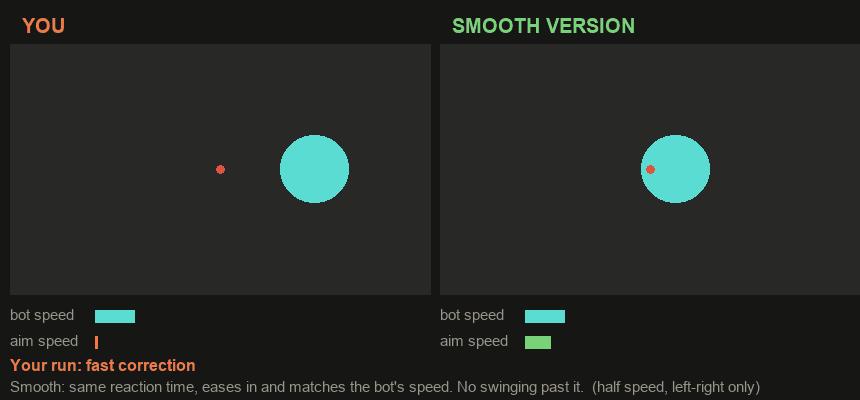
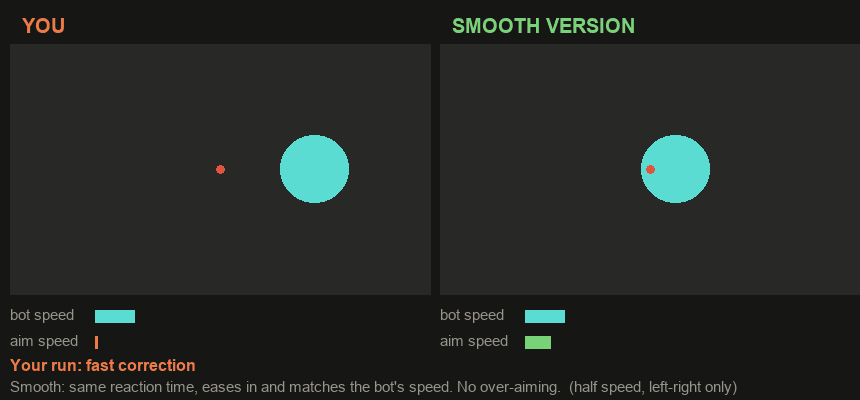
Say over-aim instead of swing-past and overshoot

Changed region(s): [[0.5442, 0.96, 0.8767, 0.99]]

diff --git a/index.html b/index.html
@@ -233,7 +233,7 @@ summary { min-height: 44px; align-items: center; }
     <ul class="sub">
       <li><span class="rt">RANK INT A</span>: Smooth Thin Track V2, Air Track Smooth V3 150%, Air Control Sphere - S. 8 runs each, after a 2-run warm-up on the easier Air Control Sphere.</li>
       <li><span class="rt">RANK INT B</span>: Pasu Track Evo (RCT) - 0.85X, Pasu Track XYZ, Zeus Track Evo - Noblink. 8 runs each, after a 2-run warm-up on the slower Pasu Track Evo (RCT) - 0.6X.</li>
-      <li><span class="rt">ZEUS BUILDER</span>: 7 drills, 2 runs each, that train the parts of Zeus Track, mostly its fast left-right direction changes and stopping on the bot without swinging past it, plus one drill for its up/down kicks. It starts with a 2-run warm-up on the easier Zeus Track Evo - Noblink (EZ).</li>
+      <li><span class="rt">ZEUS BUILDER</span>: 7 drills, 2 runs each, that train the parts of Zeus Track, mostly its fast left-right direction changes and stopping on the bot without over-aiming, plus one drill for its up/down kicks. It starts with a 2-run warm-up on the easier Zeus Track Evo - Noblink (EZ).</li>
       <li>A 2–3 minute break away from the screen at every scenario switch.</li>
     </ul>
   </section>
@@ -429,9 +429,9 @@ function journal(entries, days, aim, best) {
     ((best || {})[date] || []).forEach(x => g.appendChild(el("div", {}, bestCard(x, date))));
     const am = (aim || {})[date];
     if (am && am.length) g.appendChild(el("div", { className: "scroll" },
-      `<table class="jlog aimt"><tr><th>Aim</th><th>Runs</th><th title="Share of the run your crosshair was on the target">On target</th><th title="How fast you follow a direction change">Reaction</th><th title="Share of corrections that went past the target">Over&shy;shoot</th></tr>` +
+      `<table class="jlog aimt"><tr><th>Aim</th><th>Runs</th><th title="Share of the run your crosshair was on the target">On target</th><th title="How fast you follow a direction change">Reaction</th><th title="Share of corrections that went past the target">Over-aim</th></tr>` +
       am.map(x => `<tr><td>${esc(nice(x.scenario))}</td><td>${x.runs}</td><td>${x.on_target ?? "–"}%</td><td>${x.reaction_ms ?? "–"} ms</td><td>${x.overshoot_pct ?? "–"}%</td></tr>`).join("") +
-      `</table>` + am.filter(x => x.pps_by_distance && Object.keys(x.pps_by_distance).length > 1).map(x => `<p class="small"><b>${esc(nice(x.scenario))}, points per second by distance:</b> far ${x.pps_by_distance.far ?? "–"} · middle ${x.pps_by_distance.mid ?? "–"} · close ${x.pps_by_distance.close ?? "–"}</p>`).join("") + `<p class="small">On target: how much of the run your crosshair was on the bot. Reaction: how fast you turn after the bot changes direction (compare runs, not other people). Overshoot: how often a correction goes past the bot.</p>`));
+      `</table>` + am.filter(x => x.pps_by_distance && Object.keys(x.pps_by_distance).length > 1).map(x => `<p class="small"><b>${esc(nice(x.scenario))}, points per second by distance:</b> far ${x.pps_by_distance.far ?? "–"} · middle ${x.pps_by_distance.mid ?? "–"} · close ${x.pps_by_distance.close ?? "–"}</p>`).join("") + `<p class="small">On target: how much of the run your crosshair was on the bot. Reaction: how fast you turn after the bot changes direction (compare runs, not other people). Over-aim: how often a correction goes past the bot.</p>`));
     byDay[date].slice().sort((x, y) => isC(x) - isC(y)).forEach(e => {
       g.appendChild(el("div", { className: "jentry" + (isC(e) ? " claude" : "") }, `<div class="jwho">${esc(e.author)}${isC(e) ? " · review" : ""}</div>${body(e.text)}`));
     });
@@ -501,7 +501,7 @@ function bestCard(x, date) {
     (x.video ? `<video src="assets/aim/${esc(x.gif)}.mp4" poster="assets/aim/${esc(x.gif)}.png" width="960" height="540" muted loop playsinline preload="none" ${still ? "controls" : "autoplay"} aria-label="The 8 best seconds of my ${esc(nice(x.scenario))} run that scored ${x.score}, in my own view"></video>`
       : `<img src="assets/aim/${esc(x.gif)}.${still ? "png" : "gif"}" data-gif="assets/aim/${esc(x.gif)}.gif" loading="lazy" width="640" height="360" alt="The 8 best seconds of my ${esc(nice(x.scenario))} run that scored ${x.score}">`) +
     `<p class="score">Score <b>${x.score}</b>${x.best_14d ? ` · 14-day best ${x.best_14d}` : ""}${x.master3 ? ` · Master 3 is ${x.master3}` : ""}</p>` +
-    `<p class="score">On target ${x.on_target}%${x.reaction_ms != null ? ` · reaction ${x.reaction_ms} ms` : ""} · overshoot ${x.overshoot_pct}%</p>` +
+    `<p class="score">On target ${x.on_target}%${x.reaction_ms != null ? ` · reaction ${x.reaction_ms} ms` : ""} · over-aim ${x.overshoot_pct}%</p>` +
     `<p class="small">${esc(nd(date))}, ${esc(x.time)}. ${esc(x.note || "")}</p></div>`;
 }
 

diff --git a/weak_moment_auto.py b/weak_moment_auto.py
@@ -104,7 +104,7 @@ topspeed = max([abs(x) for x in av[a:b] + bv[a:b] if x is not None] + [s[2] for 
 def phase(k):
     if k < i0 - 10: return "behind the bot"
     if k < i0: return "fast correction"
-    if k < i0 + 16: return "too far: past the bot"
+    if k < i0 + 16: return "over-aim: past the bot"
     return "correcting back"
 
 frames = []
@@ -129,7 +129,7 @@ for idx, k in enumerate(range(a, b)):
         d.rectangle([x0 + 85, sy0 + 4, x0 + 85 + bw(math.hypot(bv[k] or 0, bpv[k] or 0)), sy0 + 16], fill=BOT)
         d.rectangle([x0 + 85, sy0 + 30, x0 + 85 + bw(avel), sy0 + 42], fill=col)
     d.text((10, H - 44), "Your run: " + phase(k), fill=BAD if i0 - 10 <= k < i0 + 16 else INK, font=FT)
-    d.text((10, H - 22), "Smooth: same reaction time, eases in and matches the bot's speed. No swinging past it.  (half speed" + (", left-right only)" if LR_ONLY else ")"), fill=DIM, font=FS)
+    d.text((10, H - 22), "Smooth: same reaction time, eases in and matches the bot's speed. No over-aiming.  (half speed" + (", left-right only)" if LR_ONLY else ")"), fill=DIM, font=FS)
     frames.append(im.convert("P", palette=Image.ADAPTIVE, colors=32))
 frames += [frames[-1]] * 20
 frames[0].save(out, save_all=True, append_images=frames[1:], duration=33, loop=0, optimize=True)

diff --git a/weak_moment_gif.py b/weak_moment_gif.py
@@ -92,7 +92,7 @@ for idx, k in enumerate(range(a, b)):
         d.rectangle([x0 + 85, sy0 + 30, x0 + 85 + bw(avel), sy0 + 42], fill=col)
     msg = phase(k)
     d.text((10, H - 44), "Your run: " + msg, fill=BAD if k < s1 else INK, font=FT)
-    d.text((10, H - 22), "Smooth: same reaction time, eases in and matches the bot's speed. No overshoot, no hard stop.  (half speed)", fill=DIM, font=FS)
+    d.text((10, H - 22), "Smooth: same reaction time, eases in and matches the bot's speed. No over-aiming, no hard stop.  (half speed)", fill=DIM, font=FS)
     frames.append(im.convert("P", palette=Image.ADAPTIVE, colors=32))
 frames += [frames[-1]] * 20
 on = lambda ey, ep: abs(ey) < 1.9 and abs(ep) < 2.0
